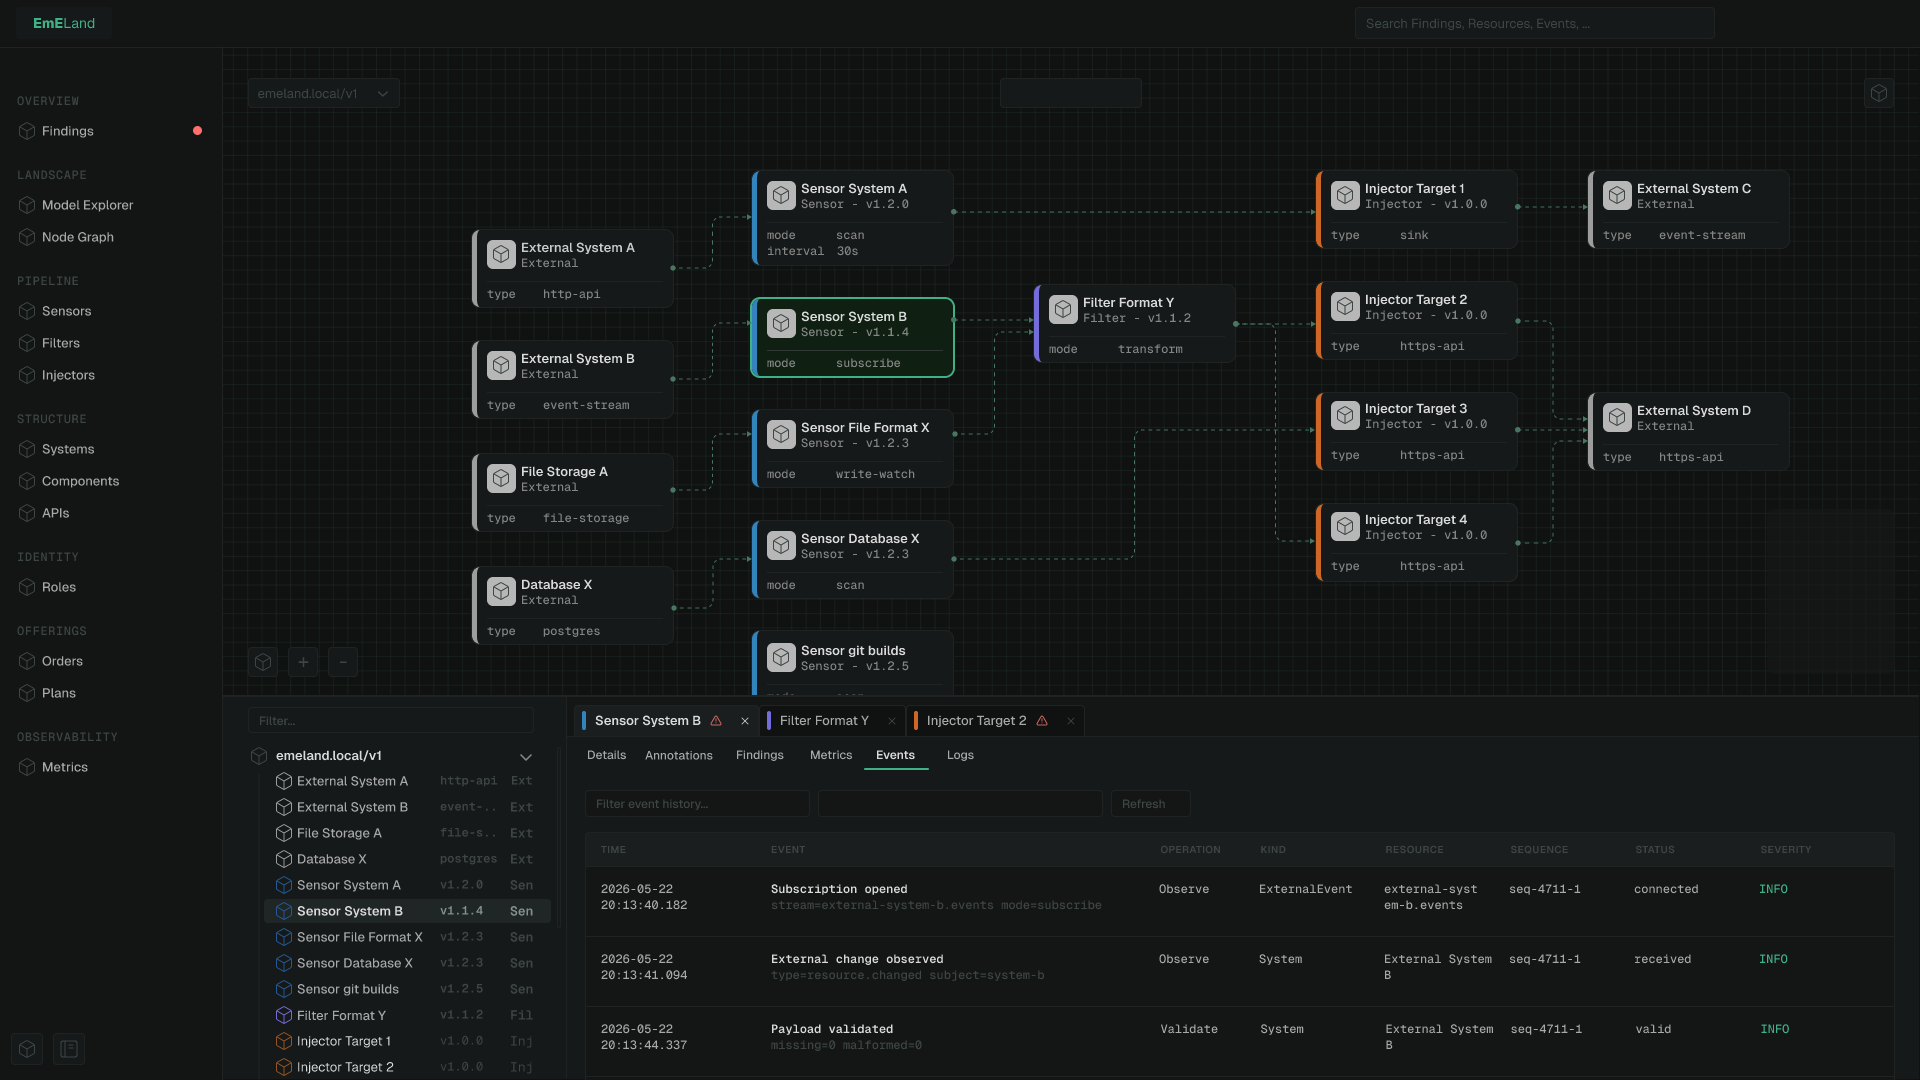
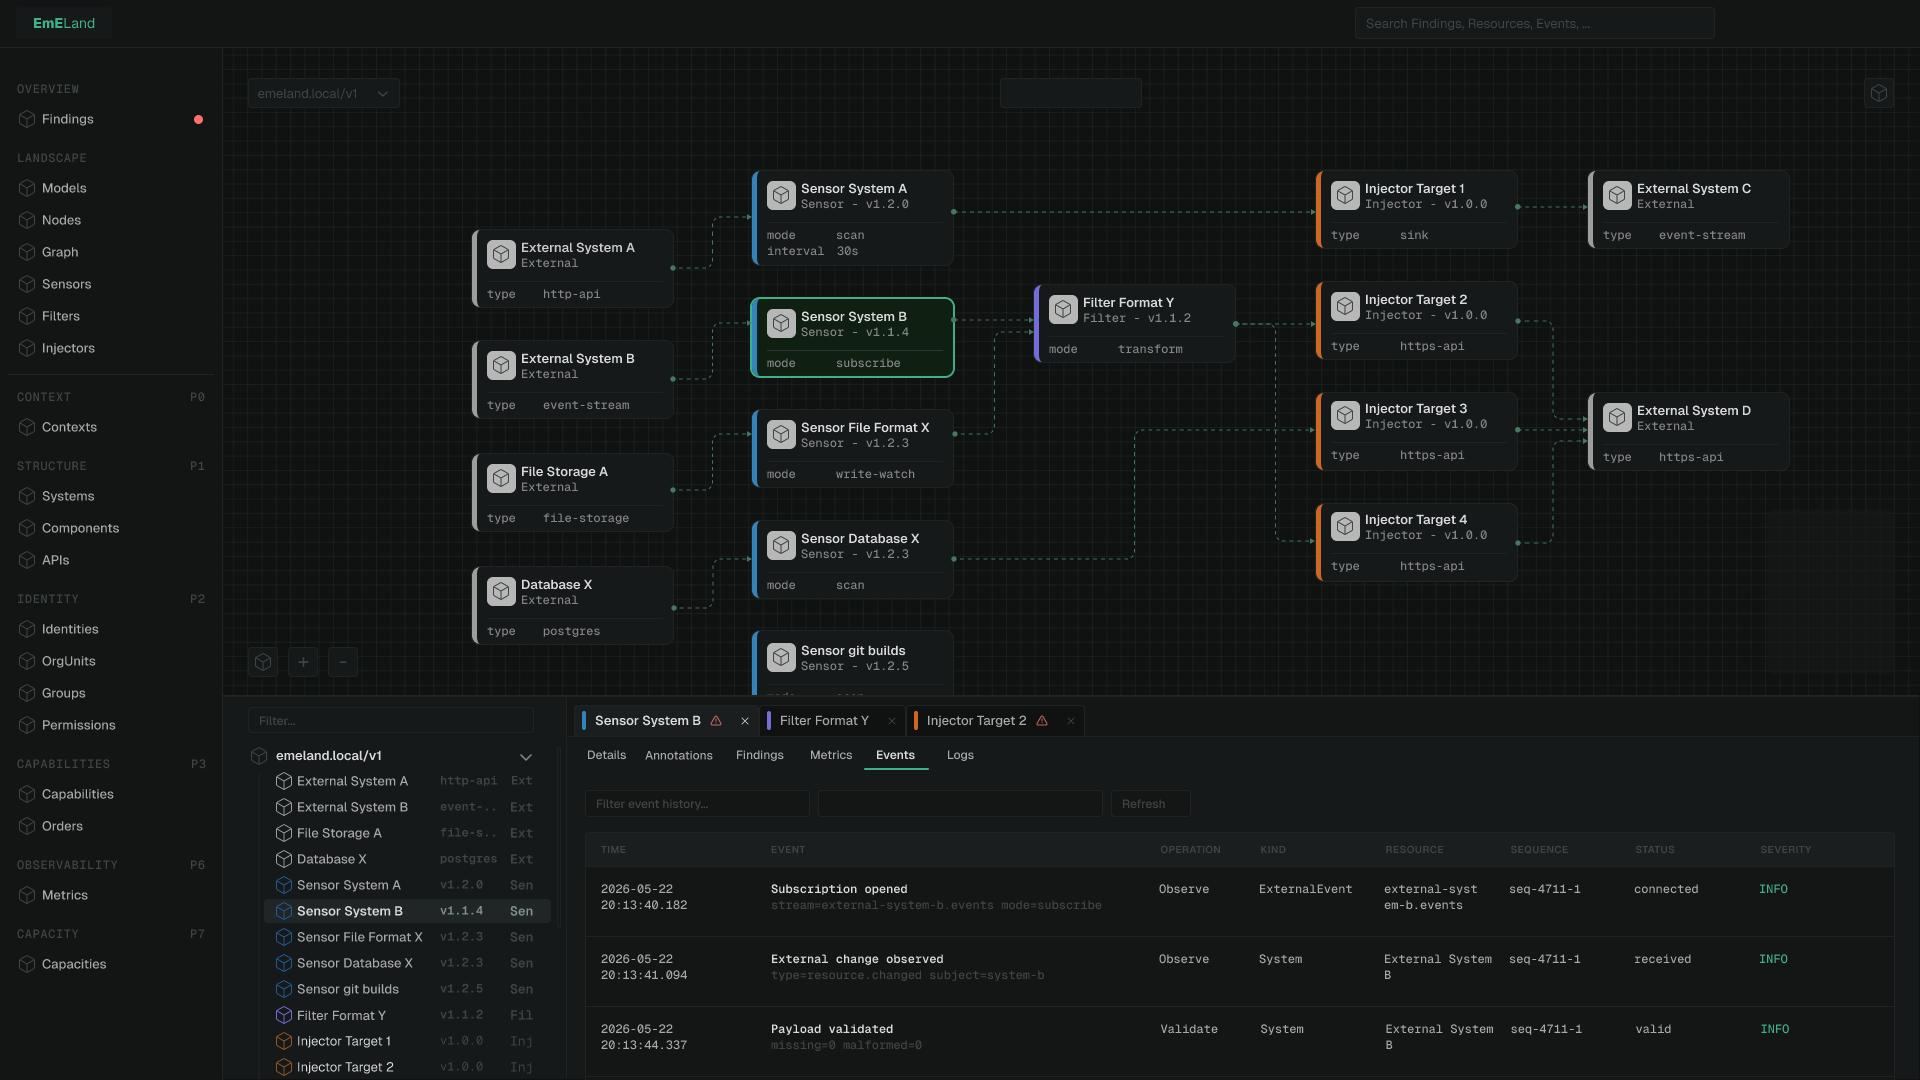
feat: update sidebar with phase-based navigation

diff --git a/doc/ui/README.md b/doc/ui/README.md
@@ -12,6 +12,14 @@ The initial application shell defining the overall structure of EmELand, includi
 
 ![Base Layout](./images/base_dark.png)
 
+### Sidebar
+
+Sidebar is structured in two parts: a header section (Overview, Landscape) and phases section below the divider listing the book phases.
+
+In the future, the phase sections could be made collapsible, this depends on how many resources each phase will eventually contain, which is not fully known yet. If the growing number of items starts to affect navigation usability, we'll revisit the phase section UX.
+
+![Sidebar](./images//sidebar_dark.png)
+
 ---
 
 ## Node Graph
